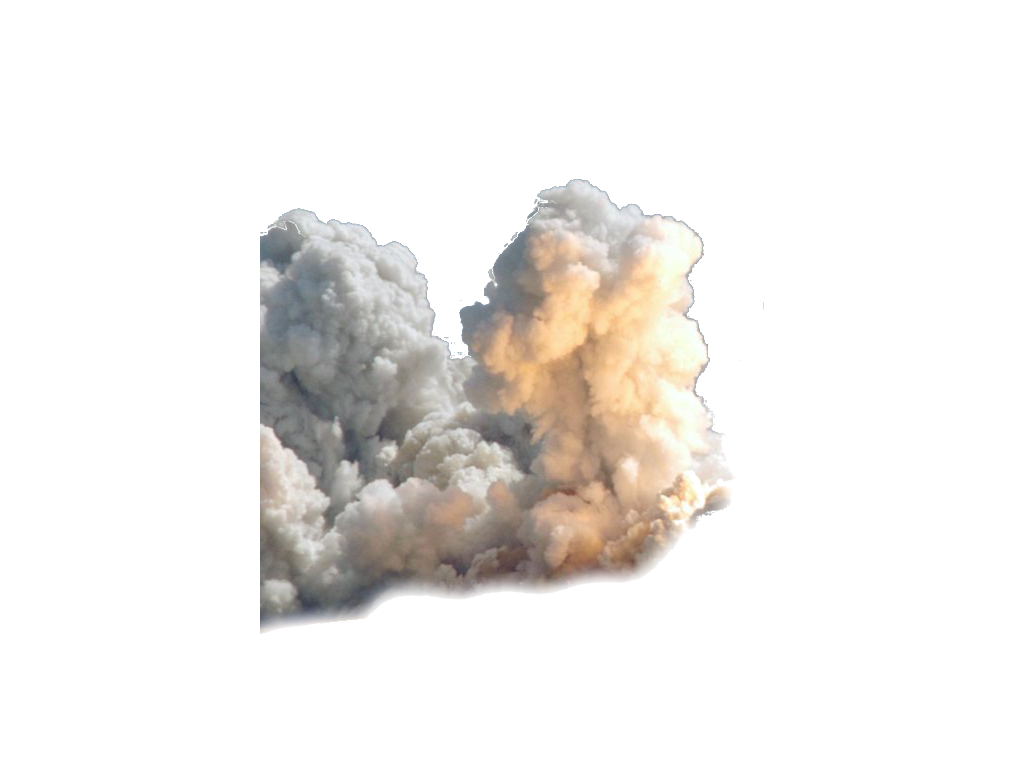
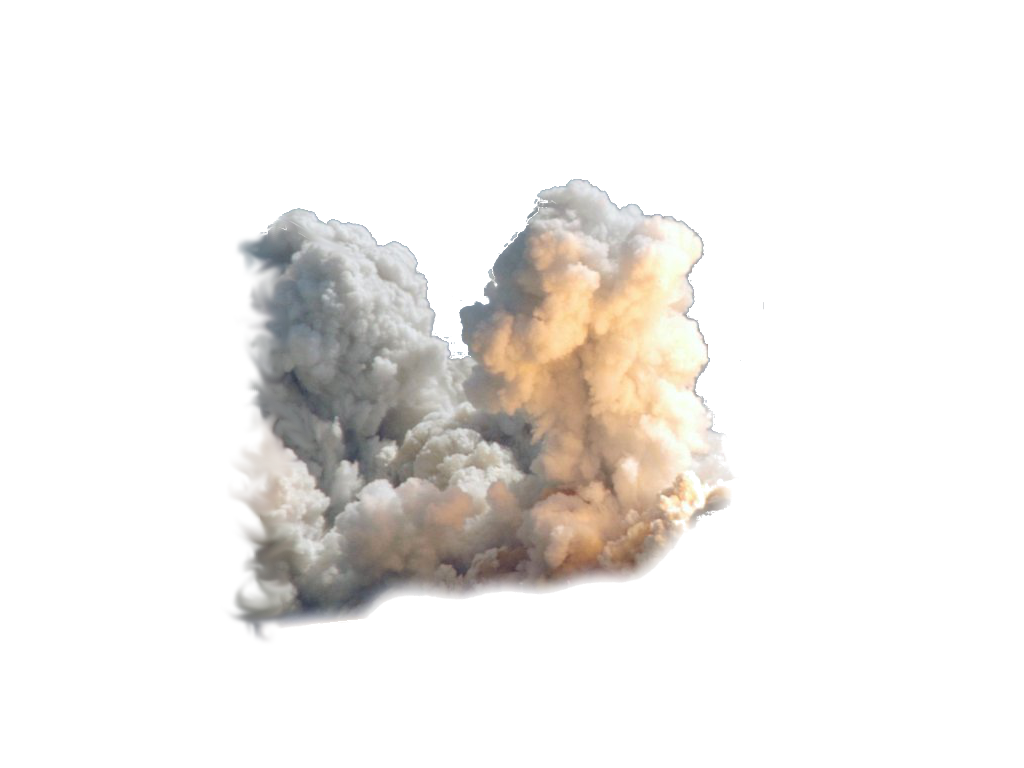
Image Ninja Edit, improved tank script
Added a detection for my background that will check if I want to
automatically hide my background after it's initialized.
@lorinkawamura  I blur out the sharp cut in your smoke picture to make
them look more smokyer

Changed region(s): [[0.2188, 0.2812, 0.2812, 0.8438]]

diff --git a/TextPaser/src/com/hal9001/main/AntimationEngine.java b/TextPaser/src/com/hal9001/main/AntimationEngine.java
@@ -36,6 +36,7 @@ public class AntimationEngine {
 				new edmundgh_FileParser("shuttleLiTank1.txt", "ShuttleLiTank.png", (EZ.getWindowWidth()/2)+140, (EZ.getWindowHeight()/2)+100),
 				new edmundgh_FileParser("shuttleLiTank2.txt", "ShuttleLiTank.png", (EZ.getWindowWidth()/2)-140, (EZ.getWindowHeight()/2)+100),
 			    new edmundgh_FileParser("shuttleShip.txt", "ShuttleShip.png", EZ.getWindowWidth()/2, (EZ.getWindowHeight()/2)+60),
+			    new edmundgh_FileParser("gate.txt", "gateLaunch.png", 815, 364),
 				
 				new shaunnk_Animator("STARS1.txt", "Stars1.png", EZ.getWindowWidth()/2, EZ.getWindowHeight()/2),
 				new shaunnk_Animator("STARS2.txt", "Stars1.png", EZ.getWindowWidth()/2, EZ.getWindowHeight()/2),

diff --git a/TextPaser/src/com/hal9001/filereader/edmundgh_FileParser.java b/TextPaser/src/com/hal9001/filereader/edmundgh_FileParser.java
@@ -112,8 +112,11 @@ public class edmundgh_FileParser implements IPaser{ //Yes Eclipse, I know the co
 			  break;
 
 		  case "background":
+			  boolean hide;
 			  backgroundName = reader.next();
-			  Image.addBackground(backgroundName);
+			  if(reader.hasNextBoolean()) hide = reader.nextBoolean();
+			  else hide = false;
+			  Image.addBackground(backgroundName, hide);
 			  System.out.printf("[%s] Adding background: %s \n", name, backgroundName);
 			  break;
 

diff --git a/TextPaser/src/com/hal9001/antimation/Image.java b/TextPaser/src/com/hal9001/antimation/Image.java
@@ -49,10 +49,10 @@ public class Image {
 	 * Sets the background
 	 * @param fileName
 	 */
-	public static void addBackground(String fileName){
+	public static void addBackground(String fileName, boolean hide){
 		background = EZ.addImage(fileName, EZ.getWindowWidth()/2, EZ.getWindowHeight()/2);
 	    backgroundList.put(fileName, background);
-	    backgroundList.get(fileName).pushToBack();
+	    if(hide) backgroundList.get(fileName).hide();
 	}
 	
 	/**
